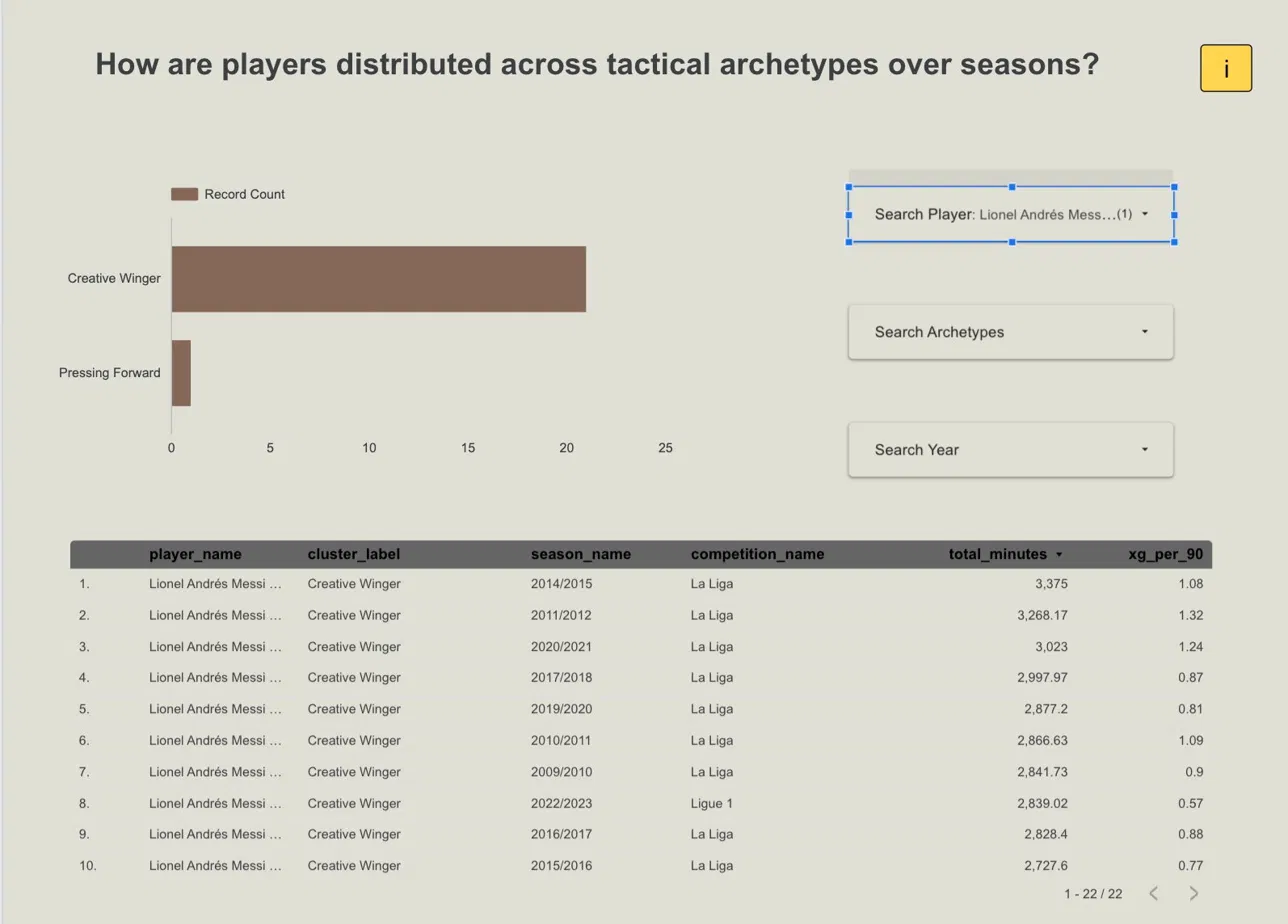
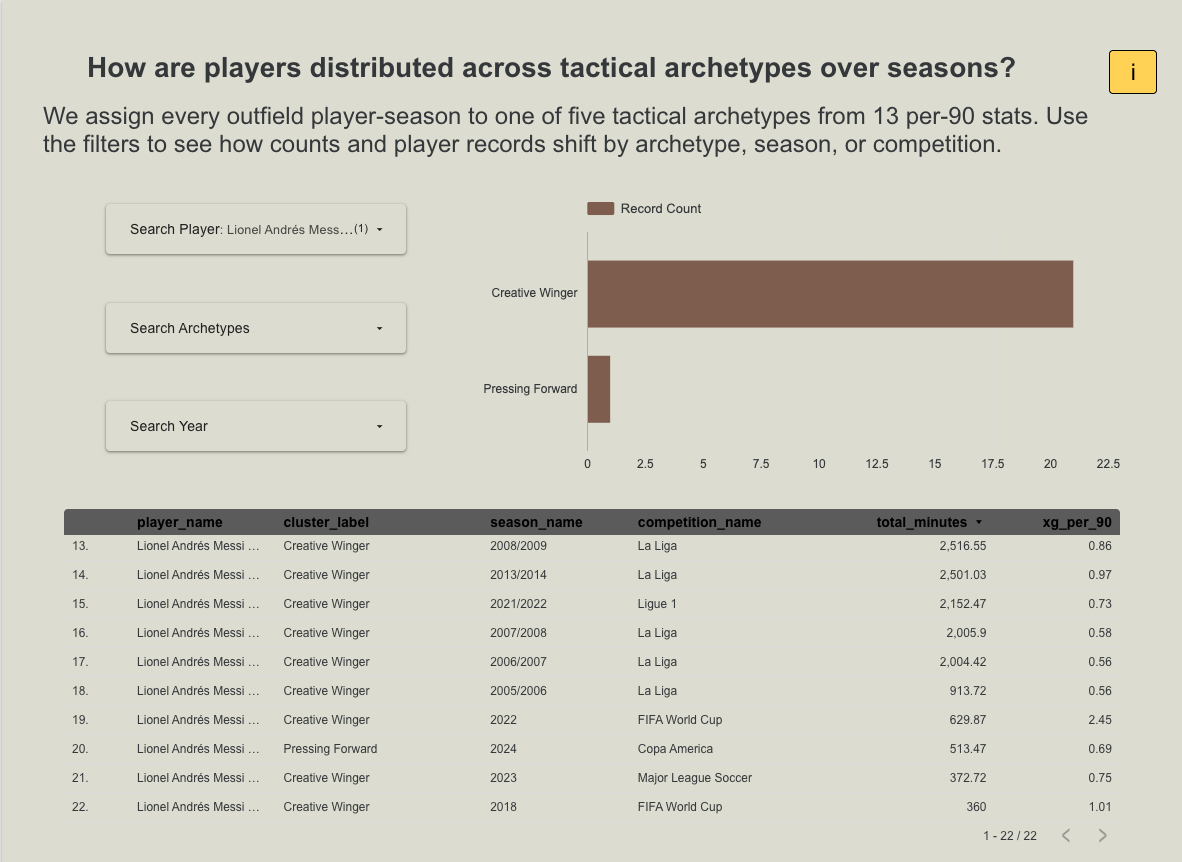
Change Messi ss and add descriptive captions

diff --git a/report/final_report/data.md b/report/final_report/data.md
@@ -8,7 +8,7 @@ Coverage is highly uneven across seasons: 2015–16 alone accounts for roughly h
 
 ![](../results/dashboard/01_match_overview.png){width=95%}
 
-StatsBomb open-data coverage overview: match volume by season and competition.
+StatsBomb open-data match volume by season and competition. Coverage is uneven, with 2015--16 accounting for roughly half of all matches.
 :::
 
 ## Source
@@ -25,7 +25,7 @@ Three tables are ingested from the API (\autoref{tbl-data-overview}):
 | `events` | One row per on-ball action | ~12.2 million rows |
 | `lineups` | One row per player appearance | 165,820 rows |
 
-: Overview of ingested StatsBomb tables. {#tbl-data-overview}
+: StatsBomb tables ingested into BigQuery via `statsbombpy`. The events table drives per-90 feature engineering, matches provide competition context, and lineups supply minutes and position. {#tbl-data-overview}
 
 The `events` table is the analytical backbone. Action types are dominated by Pass (~3.4M), Ball Receipt (~3.2M), Carry (~2.6M), and Pressure (~1.1M). There are 88,023 Shot events with non-null StatsBomb xG values (mean xG per shot: 0.107). The dataset covers 10,808 distinct players across 308 teams. Primary model outputs are **cluster labels** (RQ1), **performance quadrants**, and **consistency scores** (RQ2). Player-level modelling is limited to **men's senior** competitions, which bounded project scope.
 

diff --git a/report/final_report/chatbot.md b/report/final_report/chatbot.md
@@ -41,7 +41,7 @@ The integration of these tools creates a powerful, end-to-end workflow for a foo
 *(Screenshots of the application in action are provided below)*
 
 ![Chatbot Interface Placeholder - Showcasing a user query and the LLM response with Advanced Mode toggled on](../../presentation/assets/chatbot_screenshot.png)
-*Figure 1: The Football Analytics Chatbot interface, demonstrating the natural language query processing and the Advanced Mode debugging panels.*
+*Figure 1: RQ3 chatbot with Advanced Mode enabled, showing a natural-language query, formatted results, and the generated SQL for audit.*
 
 ![Dashboard Interface Placeholder - Showcasing the Looker Studio iframe within the Django wrapper](../../presentation/assets/dashboard_screenshot.png)
-*Figure 2: The embedded Looker Studio Dashboard, providing high-level visual exploratory data analysis.*
+*Figure 2: Embedded Looker Studio dashboard with RQ1 archetype and RQ2 consistency charts, filterable by position, competition, and archetype.*
